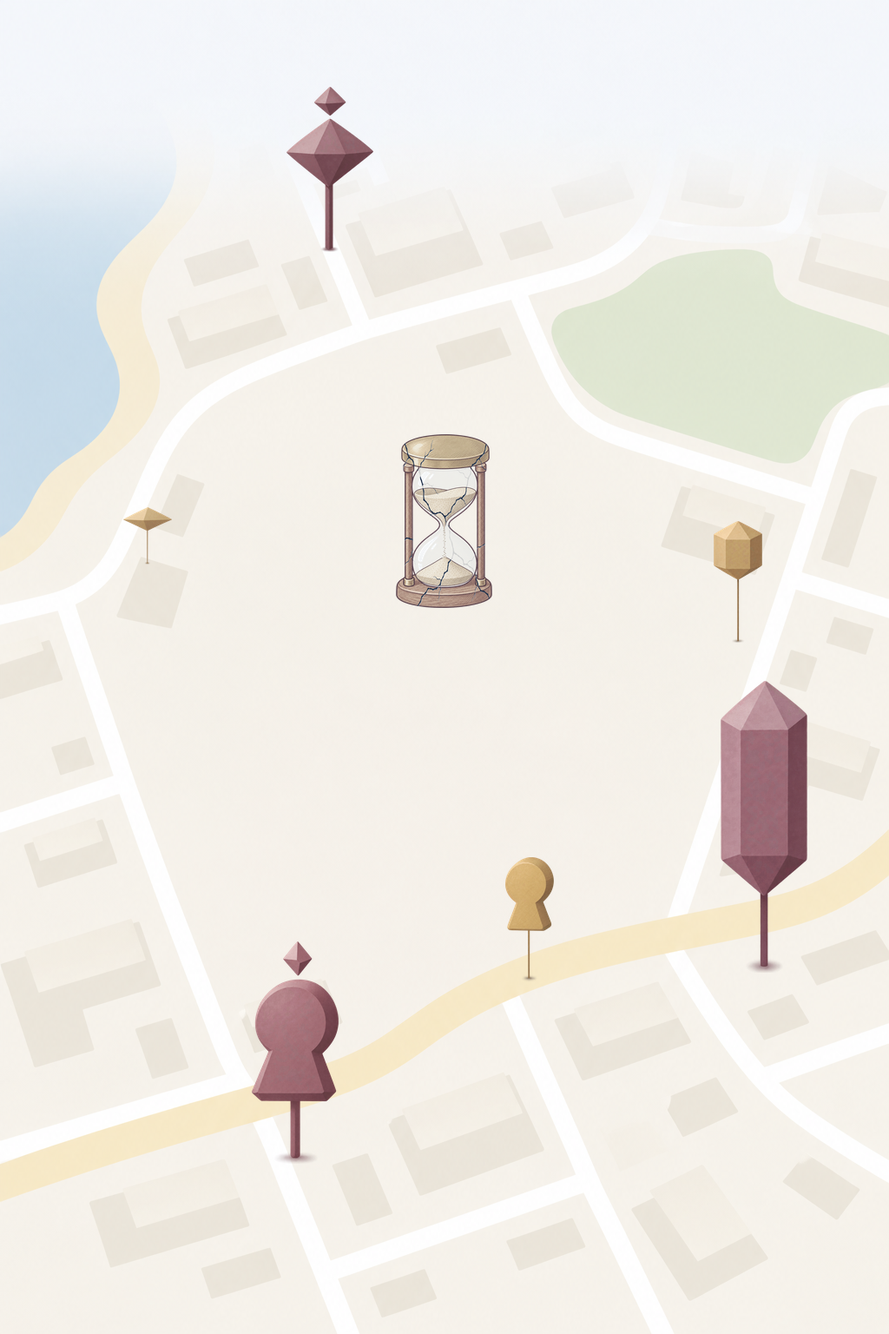
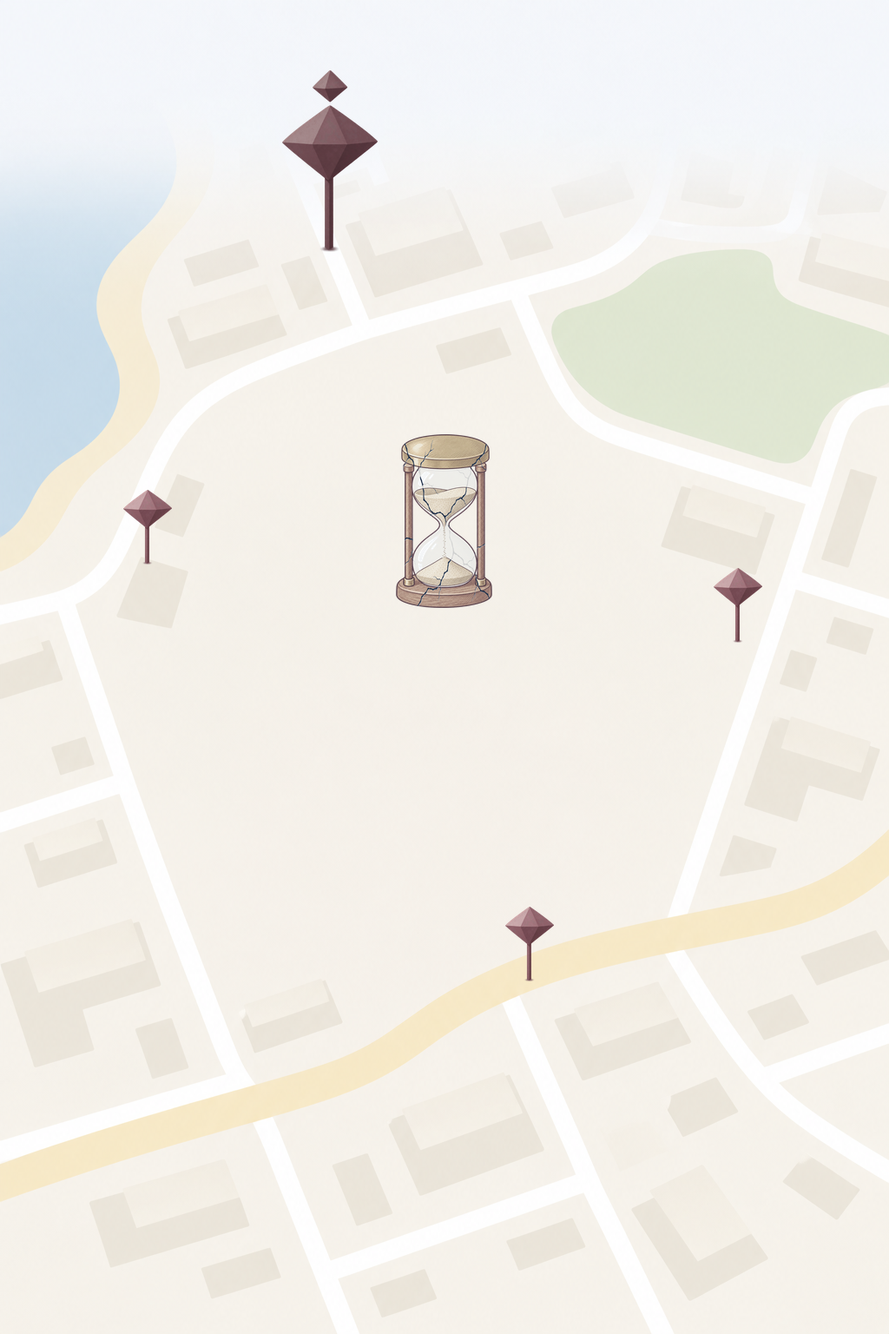
Use Roys chosen purple gem for Time Capsule Wayposts

diff --git a/design/art/concepts/lost-and-found/make-review.py b/design/art/concepts/lost-and-found/make-review.py
@@ -4,7 +4,7 @@ from PIL import Image, ImageOps, ImageDraw, ImageFilter, ImageFont
 P=Path(__file__).resolve().parent
 LAND=(243,239,230); NAVY=(22,38,63); BRASS=(201,161,90); PLUM=(110,43,63)
 SIZE=(1024,1536)
-NAMES=("marker-a-gem","marker-b-crystal","marker-c-keyhole")
+NAMES=("waypost-gem-purple",)
 def load(path): return Image.open(path).convert("RGBA")
 def box(im): return im.getchannel("A").point(lambda x:255 if x>=16 else 0).getbbox()
 def crop(im): return im.crop(box(im))
@@ -16,40 +16,49 @@ def fit(im,w,h):
 def layer(im,xy):
     out=Image.new("RGBA",SIZE);out.alpha_composite(im,xy);return out
 def export(name,im): im.save(P/name)
-LANDMARKS=("landmark-a-gem","landmark-b-crystal","landmark-c-keyhole")
-def prepare_objects():
-    for name in NAMES+LANDMARKS:
-        f=P/f"waypost/{name}.png";im=load(f)
-        if max(im.size)>1024:im.thumbnail((1024,1024),Image.Resampling.LANCZOS)
-        # Remove near-transparent specks while preserving opaque marker facets.
-        im.putalpha(im.getchannel("A").point(lambda v:0 if v<4 else v))
-        im.save(f)
+LANDMARKS=("landmark-gem-deep-purple",)
+def derive_gems():
+    source=load(P/"waypost/landmark-a-gem.png")
+    alpha=source.getchannel("A");w,h=source.size
+    bands=[]
+    for y in range(h):
+        if alpha.crop((0,y,w,y+1)).getextrema()[1]>0:
+            if not bands or y>bands[-1][1]+1:bands.append([y,y])
+            else:bands[-1][1]=y
+    if len(bands)!=2 or bands[1][0]-bands[0][1]<2:
+        raise RuntimeError("Small upper gem is not cleanly separate; stop for Roy.")
+    # Exactly delete the separate upper piece, then crop/centre without resampling.
+    lower=source.crop((0,bands[1][0],w,h))
+    piece=lower.crop(lower.getchannel("A").getbbox())
+    common=Image.new("RGBA",source.size)
+    common.paste(piece,((w-piece.width)//2,(h-piece.height)//2))
+    export("waypost/waypost-gem-purple.png",common)
+    r,g,b,a=source.split()
+    deeper=Image.merge("RGBA",tuple(ch.point(lambda v:round(v*.8)) for ch in (r,g,b))+(a,))
+    export("waypost/landmark-gem-deep-purple.png",deeper)
 def overview():
     out=load(P/"screens/map-plain.png")
     hero=resized(crop(load(P/"cracks/hourglass-corrupted-a.png")),height=200)
     out.alpha_composite(hero,((1024-hero.width)//2,500))
-    for name,(cx,cy) in zip(NAMES[:3],((170,650),(850,740),(610,1130))):
+    for cx,cy in ((170,650),(850,740),(610,1130)):
+        name=NAMES[0]
         im=resized(crop(load(P/f"waypost/{name}.png")),width=56)
         out.alpha_composite(im,(cx-im.width//2,cy-im.height))
-    for name,(cx,cy) in zip(LANDMARKS,((380,290),(880,1120),(340,1340))):
-        im=resized(crop(load(P/f"waypost/{name}.png")),width=100)
+    for name,(cx,cy) in zip(LANDMARKS,((380,290),)):
+        im=resized(crop(load(P/f"waypost/{name}.png")),width=110)
         out.alpha_composite(im,(cx-im.width//2,cy-im.height))
     export("screens/map-capsule-and-wayposts.png",out.convert("RGB"))
 def small_check():
-    out=Image.new("RGBA",(1000,500),LAND+(255,))
-    for i,name in enumerate(NAMES):
-        for row,size in enumerate((48,64)):
+    out=Image.new("RGBA",(500,300),LAND+(255,))
+    for name,cx,sizes in ((NAMES[0],150,(48,64)),(LANDMARKS[0],350,(64,96))):
+        for row,size in enumerate(sizes):
             im=fit(crop(load(P/f"waypost/{name}.png")),size,size)
-            out.alpha_composite(im,(i*330+(330-im.width)//2,15+row*125+(80-im.height)//2))
-    for i,name in enumerate(LANDMARKS):
-        for row,size in enumerate((64,96)):
-            im=fit(crop(load(P/f"waypost/{name}.png")),size,size)
-            out.alpha_composite(im,(115+i*330+(100-im.width)//2,280+row*110))
+            out.alpha_composite(im,(cx-im.width//2,25+row*135))
     export("checks/wayposts-64.png",out)
 def sheet():
     font=ImageFont.truetype("/System/Library/Fonts/Supplemental/Arial.ttf",24)
     title=ImageFont.truetype("/System/Library/Fonts/Supplemental/Arial.ttf",32)
-    names=("Waypost A: floating gem","Waypost B: short crystal","Waypost C: solid keyhole")
+    names=("Waypost: purple gem",)
     rows=[
       ("1 Balls",[(str(f.relative_to(P)),f.stem.replace("ball-","Ball ").replace("-"," ")) for f in sorted((P/"ball").glob("*.png"))],400),
       ("",[("checks/balls-64.png","All five balls at 64 px: map land / white road")],220),
@@ -60,8 +69,8 @@ def sheet():
       ("",[("screens/catch-background.png","Shared catch and Landmark fight background")],650),
       ("",[("screens/hit-dust.png","Separate wax-red dust effect")],220),
       ("4 Common Wayposts",[(f"waypost/{n}.png",label) for n,label in zip(NAMES,names)],320),
-      ("",[("checks/wayposts-64.png","Common markers: 48/64 px; Landmark markers: 64/96 px")],500),
-      ("5 Landmark Waypost",[("waypost/landmark-a-gem.png","Landmark Waypost A: stacked gems"),("waypost/landmark-b-crystal.png","Landmark Waypost B: tall crystal"),("waypost/landmark-c-keyhole.png","Landmark Waypost C: keyhole and gem")],400),
+      ("",[("checks/wayposts-64.png","Common gem: 48/64 px; Landmark gem: 64/96 px")],500),
+      ("5 Landmark Waypost",[("waypost/landmark-gem-deep-purple.png","Landmark Waypost: deep purple gem")],400),
       ("",[("screens/map-capsule-and-wayposts.png","Map: floating common and Landmark markers"),("screens/screen-landmark-fight.png","Landmark fight: giant Corrupted Capsule")],650),
       ("6 To whoever passes by",[("whoever/portrait-a-bench.png","Portrait A: waiting envelope on bench"),("whoever/portrait-b-lamp.png","Portrait B: envelope tied to lamp")],380),
       ("",[("whoever/scene-a-bench.png","Scene A: envelope waiting on bench"),("whoever/scene-b-lamp.png","Scene B: envelope tied to lamp")],450),
@@ -79,4 +88,4 @@ def sheet():
         y+=h+36
     export("contact-sheet.png",out.convert("RGB"))
 if __name__=="__main__":
-    prepare_objects();overview();small_check();sheet()
+    derive_gems();overview();small_check();sheet()

diff --git a/design/art/concepts/lost-and-found/README.md b/design/art/concepts/lost-and-found/README.md
@@ -1,100 +1,45 @@
 # Time Capsule / 時光膠囊 — concept pictures
 
-Review concepts only. Corrupted Capsules / 破損膠囊 stay detailed and colourful. A Waypost is a muted solid object floating above the map on one thin straight stem ending in a soft shadow dot. The marker itself is what players spin. Common markers use dusty brass; Landmark markers use dusty plum, a larger shape and a thicker stem.
+Roy chose the purple gem as the Waypost. These remain review concepts. The common Waypost uses one purple gem on a stem; the Landmark Waypost keeps the small hovering gem above the large one and is 20% darker. Corrupted Capsules / 破損膠囊 remain the detailed illustrated objects. The marker itself is what players spin.
+
+This update is script only. No new image-generation calls were made.
 
 ## Roy to choose
 
 - Ball: A smooth, B poured or C pressed wax.
 - Gold treatment: solid brass-gold wax or branching brass-gold veins.
 - Crack style: Corrupted A (large branching cracks) or Corrupted B (fine crackle).
-- Waypost shape: gem, crystal or solid keyhole, with its matching Landmark version.
 - Portrait: bench or lamp.
 - Scene: bench or lamp.
 
-## Scope and preserved pictures
+## Exact source and derived markers
 
-Six floating-marker pictures replace every rejected `waypost/block-*` file. There are no building markers or separate spinning objects. Only these new pictures, `screens/map-capsule-and-wayposts.png`, `checks/wayposts-64.png`, `contact-sheet.png`, `make-review.py` and this README change. Everything else stays byte-identical to `816a358`, including catch/fight pictures and layers, backgrounds, capsule art, balls, crack overlays, portraits and scenes. PR #77 stays unchanged.
+Source: `waypost/landmark-a-gem.png`, byte-identical to `7e4f557`. Its alpha contains two separate occupied row bands: rows 103–251 for the small gem and 263–936 for the large gem, stem and shadow dot. Rows 252–262 are completely transparent, so the small gem is cleanly separate.
 
-## Separate layers and backgrounds
+- `waypost/waypost-gem-purple.png`: remove only the separate upper piece. Crop the lower piece by its exact alpha bounds and paste it at integer coordinates centred on a new transparent canvas of the same 1024 × 1024 size. No resampling or colour changes: every retained RGBA pixel of the large gem, stem and dot is unchanged.
+- `waypost/landmark-gem-deep-purple.png`: retain the full original stack and canvas. Multiply each RGB channel by 0.8, rounding to the nearest integer. Alpha is copied unchanged. This deepens/darkens all three facet tones while preserving their contrast and the complete shape.
+- Delete the five rejected common gem/crystal/keyhole and Landmark crystal/keyhole source files. Keep the original stacked purple gem as the reproducible source, without showing it as an extra choice.
 
-Map, shadow, capsule, ball and dust remain separate. Catch and Landmark fight share `screens/catch-background.png`; the overview uses `screens/map-plain.png`. Targets and capsule motion are supplied by app code. No drawn target or glow is added. Both backgrounds are invented and show no real place; the real-geography reference step does not apply.
+## Script and review outputs
 
-## Script processing
-
-Run from the repository root with Pillow in a temporary environment outside the repository:
+Run from the repository root using Pillow in a temporary environment outside the repository:
 
 ```sh
 /tmp/timecapsule-concept-venv/bin/python design/art/concepts/lost-and-found/make-review.py
 ```
 
-The script writes only inside this concept folder:
+The script writes only inside this concept folder. `derive_gems()` stops with an error if the alpha no longer separates the two source pieces cleanly.
 
-- `prepare_objects()` downscales the six new marker canvases to fit 1024 without upscaling. The tool returned genuine transparency; native alpha is retained with near-transparent specks below alpha 4 cleared. Each marker's object, stem and small soft shadow dot remain together as the review marker.
-- `screens/map-capsule-and-wayposts.png` starts with the exact kept plain map. The exact Corrupted hourglass stays 200 px tall at its previous position. Three common markers are uniformly resized to 56 px wide and three Landmark markers to 100 px wide. Each is anchored by its bottom shadow dot on a different street. The Landmark crystal is placed away from the common crystal to avoid overlap. No giant capsule is added.
-- `checks/wayposts-64.png` shows common markers at maximum visible dimensions 48 and 64 px, and Landmark markers at 64 and 96 px, on map land #F3EFE6. Each size includes the marker, stem and shadow.
-- `contact-sheet.png` stays 2200 px wide. Its sections are Balls → Crack effect → Throw and hit → Common Wayposts → Landmark Waypost → To whoever passes by. Building and separate spinner pictures are removed. Only this image contains text.
-- Catch/fight composites and their layers are not regenerated. They retain the shared catch background, independent shadow/capsule/ball/dust layers, 60% mending blend, and the existing giant Corrupted Senado fight preview.
-- The kept crack effects, restored master, ball checks, portrait circles, scene fades and their checks retain their pixels and previous processing.
+- `screens/map-capsule-and-wayposts.png`: exact kept plain map and exact Corrupted hourglass, still 200 px tall at its previous position. Place three common gems at 56 px wide and one Landmark gem at 110 px wide on different streets, anchored by their bottom shadow dots.
+- `checks/wayposts-64.png`: common gem at maximum visible dimensions 48 and 64 px; Landmark gem at 64 and 96 px; map land #F3EFE6. Each size includes its stem and dot.
+- `contact-sheet.png`: unchanged section order, showing only the two final Waypost markers with captions “Waypost: purple gem” and “Landmark Waypost: deep purple gem”. Width 2200 px. This is the only image containing text.
+- All other tracked files remain byte-identical to `7e4f557`, including the source gem, backgrounds, catch/fight previews, positioned layers, capsule/crack art, balls, portraits, scenes and other size checks. PR #77 stays unchanged.
 
-Visual review covers all six markers for the requested silhouettes, muted colour families, single stems, soft shadow dots, no platforms/rings/buildings/blue objects/writing, and readability in the size check and map preview. App/browser/device integration is outside this concept review.
+Map, shadow, capsule, ball and dust remain separate in the retained catch/fight art. The app supplies targets and movement. The backgrounds are invented, show no real place, and do not require a real-geography reference. No app/browser/device integration is claimed.
 
-## Exact final prompts for the six new pictures
+## Retained generation provenance
 
-Model: **gpt-image-2 through Codex's built-in image tool**. Every call uses the approved style sheet first and `screens/map-plain.png` second. The exact approved style block starts every prompt.
-
-### `waypost/marker-a-gem.png`
-
-Model: `gpt-image-2`
-
-References: `design/art/style-sheet.png`, `design/art/concepts/lost-and-found/screens/map-plain.png`
-
-```text
-App: 時光膠囊 / Time Capsule. People send a sealed letter that can only be opened at a set time and place. Mood: tender, human, nostalgic, "precious in the AI age". Hand-inked storybook, not glossy 3D.
-- Clean ink line art with a slightly hand-drawn line, flat colour fills plus one soft shading tone, a little paper grain, light hatching only (it must still read at about 120 px). Lines in plum #6E2B3F or navy #16263F.
-- Palette only: ink blue #2F5D8A, light blue #5A8FD0, glass blue #DCE8F2, plum #6E2B3F, brass #C9A15A, wax red #A3364F, navy #16263F, paper #F6F8FB, cream #F3E2BB. Warm brown wood is allowed for wooden objects.
-- Front three-quarter view, soft top-left light. No text, letters, numbers, logos or real brands.
-- Transparent background, object centred, generous padding (object fills about 70% of the canvas), square.
-Match the attached style sheet exactly.
-Override for this image only: this is one small, simple map marker made to sit on the map in the second reference image. Ignore the style block's lines about ink line art, hatching, paper grain and palette. Do not copy the detail of the style sheet. One solid object hovers in the upper part of the canvas, held up by a single thin straight stem that ends in one small soft dot of shadow on the ground. The object looks three-dimensional, with a few clean flat facets, matte surfaces, no outlines and three soft tones of a single muted colour (lit, mid, shaded), with light from the top-left. It is calm and slightly dusty, not bright, shiny, glossy, plastic or realistic. Only one colour family. No base, plate, ring, disc, beam, glow, sparkle or ground. Transparent background.
-One faceted gem shaped like two SHALLOW pyramids joined at their widest point. Wide low diamond silhouette, not a cube or box.
-Common Waypost marker. Muted dusty brass based on #C9A15A but greyer and softer, only one colour family, three calm flat facet tones. The hovering object is at the top, one thin straight stem supports it and ends at ONE small soft shadow dot, no platform. Readable at 48 px. No cube, blue object, flat plate, square under the object, ring, disc, tower, building, beam, glow, sparkle, text, letters, numbers, logos or writing-like marks.
-```
-
-### `waypost/marker-b-crystal.png`
-
-Model: `gpt-image-2`
-
-References: `design/art/style-sheet.png`, `design/art/concepts/lost-and-found/screens/map-plain.png`
-
-```text
-App: 時光膠囊 / Time Capsule. People send a sealed letter that can only be opened at a set time and place. Mood: tender, human, nostalgic, "precious in the AI age". Hand-inked storybook, not glossy 3D.
-- Clean ink line art with a slightly hand-drawn line, flat colour fills plus one soft shading tone, a little paper grain, light hatching only (it must still read at about 120 px). Lines in plum #6E2B3F or navy #16263F.
-- Palette only: ink blue #2F5D8A, light blue #5A8FD0, glass blue #DCE8F2, plum #6E2B3F, brass #C9A15A, wax red #A3364F, navy #16263F, paper #F6F8FB, cream #F3E2BB. Warm brown wood is allowed for wooden objects.
-- Front three-quarter view, soft top-left light. No text, letters, numbers, logos or real brands.
-- Transparent background, object centred, generous padding (object fills about 70% of the canvas), square.
-Match the attached style sheet exactly.
-Override for this image only: this is one small, simple map marker made to sit on the map in the second reference image. Ignore the style block's lines about ink line art, hatching, paper grain and palette. Do not copy the detail of the style sheet. One solid object hovers in the upper part of the canvas, held up by a single thin straight stem that ends in one small soft dot of shadow on the ground. The object looks three-dimensional, with a few clean flat facets, matte surfaces, no outlines and three soft tones of a single muted colour (lit, mid, shaded), with light from the top-left. It is calm and slightly dusty, not bright, shiny, glossy, plastic or realistic. Only one colour family. No base, plate, ring, disc, beam, glow, sparkle or ground. Transparent background.
-One SHORT six-sided crystal with a shallow point at each end. Short hexagonal prismatic crystal, plainly different from a cube.
-Common Waypost marker. Muted dusty brass based on #C9A15A but greyer and softer, only one colour family, three calm flat facet tones. The hovering object is at the top, one thin straight stem supports it and ends at ONE small soft shadow dot, no platform. Readable at 48 px. No cube, blue object, flat plate, square under the object, ring, disc, tower, building, beam, glow, sparkle, text, letters, numbers, logos or writing-like marks.
-```
-
-### `waypost/marker-c-keyhole.png`
-
-Model: `gpt-image-2`
-
-References: `design/art/style-sheet.png`, `design/art/concepts/lost-and-found/screens/map-plain.png`
-
-```text
-App: 時光膠囊 / Time Capsule. People send a sealed letter that can only be opened at a set time and place. Mood: tender, human, nostalgic, "precious in the AI age". Hand-inked storybook, not glossy 3D.
-- Clean ink line art with a slightly hand-drawn line, flat colour fills plus one soft shading tone, a little paper grain, light hatching only (it must still read at about 120 px). Lines in plum #6E2B3F or navy #16263F.
-- Palette only: ink blue #2F5D8A, light blue #5A8FD0, glass blue #DCE8F2, plum #6E2B3F, brass #C9A15A, wax red #A3364F, navy #16263F, paper #F6F8FB, cream #F3E2BB. Warm brown wood is allowed for wooden objects.
-- Front three-quarter view, soft top-left light. No text, letters, numbers, logos or real brands.
-- Transparent background, object centred, generous padding (object fills about 70% of the canvas), square.
-Match the attached style sheet exactly.
-Override for this image only: this is one small, simple map marker made to sit on the map in the second reference image. Ignore the style block's lines about ink line art, hatching, paper grain and palette. Do not copy the detail of the style sheet. One solid object hovers in the upper part of the canvas, held up by a single thin straight stem that ends in one small soft dot of shadow on the ground. The object looks three-dimensional, with a few clean flat facets, matte surfaces, no outlines and three soft tones of a single muted colour (lit, mid, shaded), with light from the top-left. It is calm and slightly dusty, not bright, shiny, glossy, plastic or realistic. Only one colour family. No base, plate, ring, disc, beam, glow, sparkle or ground. Transparent background.
-One SOLID keyhole-shaped object with real thickness, standing upright. The external silhouette is a round head merging into a short flared trapezoid foot; filled solid, NOT a hole cut into a plate. No plate behind it.
-Common Waypost marker. Muted dusty brass based on #C9A15A but greyer and softer, only one colour family, three calm flat facet tones. The hovering object is at the top, one thin straight stem supports it and ends at ONE small soft shadow dot, no platform. Readable at 48 px. No cube, blue object, flat plate, square under the object, ring, disc, tower, building, beam, glow, sparkle, text, letters, numbers, logos or writing-like marks.
-```
+No image was generated for this correction. The exact original prompt for the retained source gem appears first below, followed by the unchanged prompts for other kept pictures. They may contain older wording or file names. Deleted marker prompts are removed.
 
 ### `waypost/landmark-a-gem.png`
 
@@ -113,46 +58,6 @@ Override for this image only: this is one small, simple map marker made to sit o
 TWO shallow faceted gem shapes stacked: a large gem made from two shallow pyramids joined at their widest point, with a small matching gem HOVERING a short clear gap ABOVE it. The single straight stem supports the large lower gem. No connection or plate between the gems.
 Landmark Waypost marker. Muted dusty plum based on #6E2B3F but greyer and softer, one colour family with three calm flat facet tones. Clearly larger and more important than its common marker counterpart, supported on a slightly thicker straight stem ending at ONE small soft shadow dot. No base or platform. No cube, blue object, flat plate, square beneath the object, ring, disc, tower, building, beam, glow, sparkle, text, letters, numbers, logos or writing-like marks.
 ```
-
-### `waypost/landmark-b-crystal.png`
-
-Model: `gpt-image-2`
-
-References: `design/art/style-sheet.png`, `design/art/concepts/lost-and-found/screens/map-plain.png`
-
-```text
-App: 時光膠囊 / Time Capsule. People send a sealed letter that can only be opened at a set time and place. Mood: tender, human, nostalgic, "precious in the AI age". Hand-inked storybook, not glossy 3D.
-- Clean ink line art with a slightly hand-drawn line, flat colour fills plus one soft shading tone, a little paper grain, light hatching only (it must still read at about 120 px). Lines in plum #6E2B3F or navy #16263F.
-- Palette only: ink blue #2F5D8A, light blue #5A8FD0, glass blue #DCE8F2, plum #6E2B3F, brass #C9A15A, wax red #A3364F, navy #16263F, paper #F6F8FB, cream #F3E2BB. Warm brown wood is allowed for wooden objects.
-- Front three-quarter view, soft top-left light. No text, letters, numbers, logos or real brands.
-- Transparent background, object centred, generous padding (object fills about 70% of the canvas), square.
-Match the attached style sheet exactly.
-Override for this image only: this is one small, simple map marker made to sit on the map in the second reference image. Ignore the style block's lines about ink line art, hatching, paper grain and palette. Do not copy the detail of the style sheet. One solid object hovers in the upper part of the canvas, held up by a single thin straight stem that ends in one small soft dot of shadow on the ground. The object looks three-dimensional, with a few clean flat facets, matte surfaces, no outlines and three soft tones of a single muted colour (lit, mid, shaded), with light from the top-left. It is calm and slightly dusty, not bright, shiny, glossy, plastic or realistic. Only one colour family. No base, plate, ring, disc, beam, glow, sparkle or ground. Transparent background.
-ONE TALL SIX-SIDED crystal, about twice as tall as the common short crystal, with a shallow point at each end. One elongated faceted hexagonal prism; not a cube or tower.
-Landmark Waypost marker. Muted dusty plum based on #6E2B3F but greyer and softer, one colour family with three calm flat facet tones. Clearly larger and more important than its common marker counterpart, supported on a slightly thicker straight stem ending at ONE small soft shadow dot. No base or platform. No cube, blue object, flat plate, square beneath the object, ring, disc, tower, building, beam, glow, sparkle, text, letters, numbers, logos or writing-like marks.
-```
-
-### `waypost/landmark-c-keyhole.png`
-
-Model: `gpt-image-2`
-
-References: `design/art/style-sheet.png`, `design/art/concepts/lost-and-found/screens/map-plain.png`
-
-```text
-App: 時光膠囊 / Time Capsule. People send a sealed letter that can only be opened at a set time and place. Mood: tender, human, nostalgic, "precious in the AI age". Hand-inked storybook, not glossy 3D.
-- Clean ink line art with a slightly hand-drawn line, flat colour fills plus one soft shading tone, a little paper grain, light hatching only (it must still read at about 120 px). Lines in plum #6E2B3F or navy #16263F.
-- Palette only: ink blue #2F5D8A, light blue #5A8FD0, glass blue #DCE8F2, plum #6E2B3F, brass #C9A15A, wax red #A3364F, navy #16263F, paper #F6F8FB, cream #F3E2BB. Warm brown wood is allowed for wooden objects.
-- Front three-quarter view, soft top-left light. No text, letters, numbers, logos or real brands.
-- Transparent background, object centred, generous padding (object fills about 70% of the canvas), square.
-Match the attached style sheet exactly.
-Override for this image only: this is one small, simple map marker made to sit on the map in the second reference image. Ignore the style block's lines about ink line art, hatching, paper grain and palette. Do not copy the detail of the style sheet. One solid object hovers in the upper part of the canvas, held up by a single thin straight stem that ends in one small soft dot of shadow on the ground. The object looks three-dimensional, with a few clean flat facets, matte surfaces, no outlines and three soft tones of a single muted colour (lit, mid, shaded), with light from the top-left. It is calm and slightly dusty, not bright, shiny, glossy, plastic or realistic. Only one colour family. No base, plate, ring, disc, beam, glow, sparkle or ground. Transparent background.
-ONE LARGE SOLID keyhole-shaped object with real thickness, upright, with ONE small faceted gem HOVERING a short clear gap ABOVE it. The keyhole external silhouette is a round head merging into a short flared trapezoid foot, filled solid, not a hole in a plate. A single straight stem supports the keyhole. No plate behind it.
-Landmark Waypost marker. Muted dusty plum based on #6E2B3F but greyer and softer, one colour family with three calm flat facet tones. Clearly larger and more important than its common marker counterpart, supported on a slightly thicker straight stem ending at ONE small soft shadow dot. No base or platform. No cube, blue object, flat plate, square beneath the object, ring, disc, tower, building, beam, glow, sparkle, text, letters, numbers, logos or writing-like marks.
-```
-
-## Retained generation provenance
-
-Previously recorded prompts for kept pictures remain word for word; they may contain older wording or file names. Prompts for deleted buildings and separate spinners are removed.
 
 ### `screens/catch-background.png`
 
